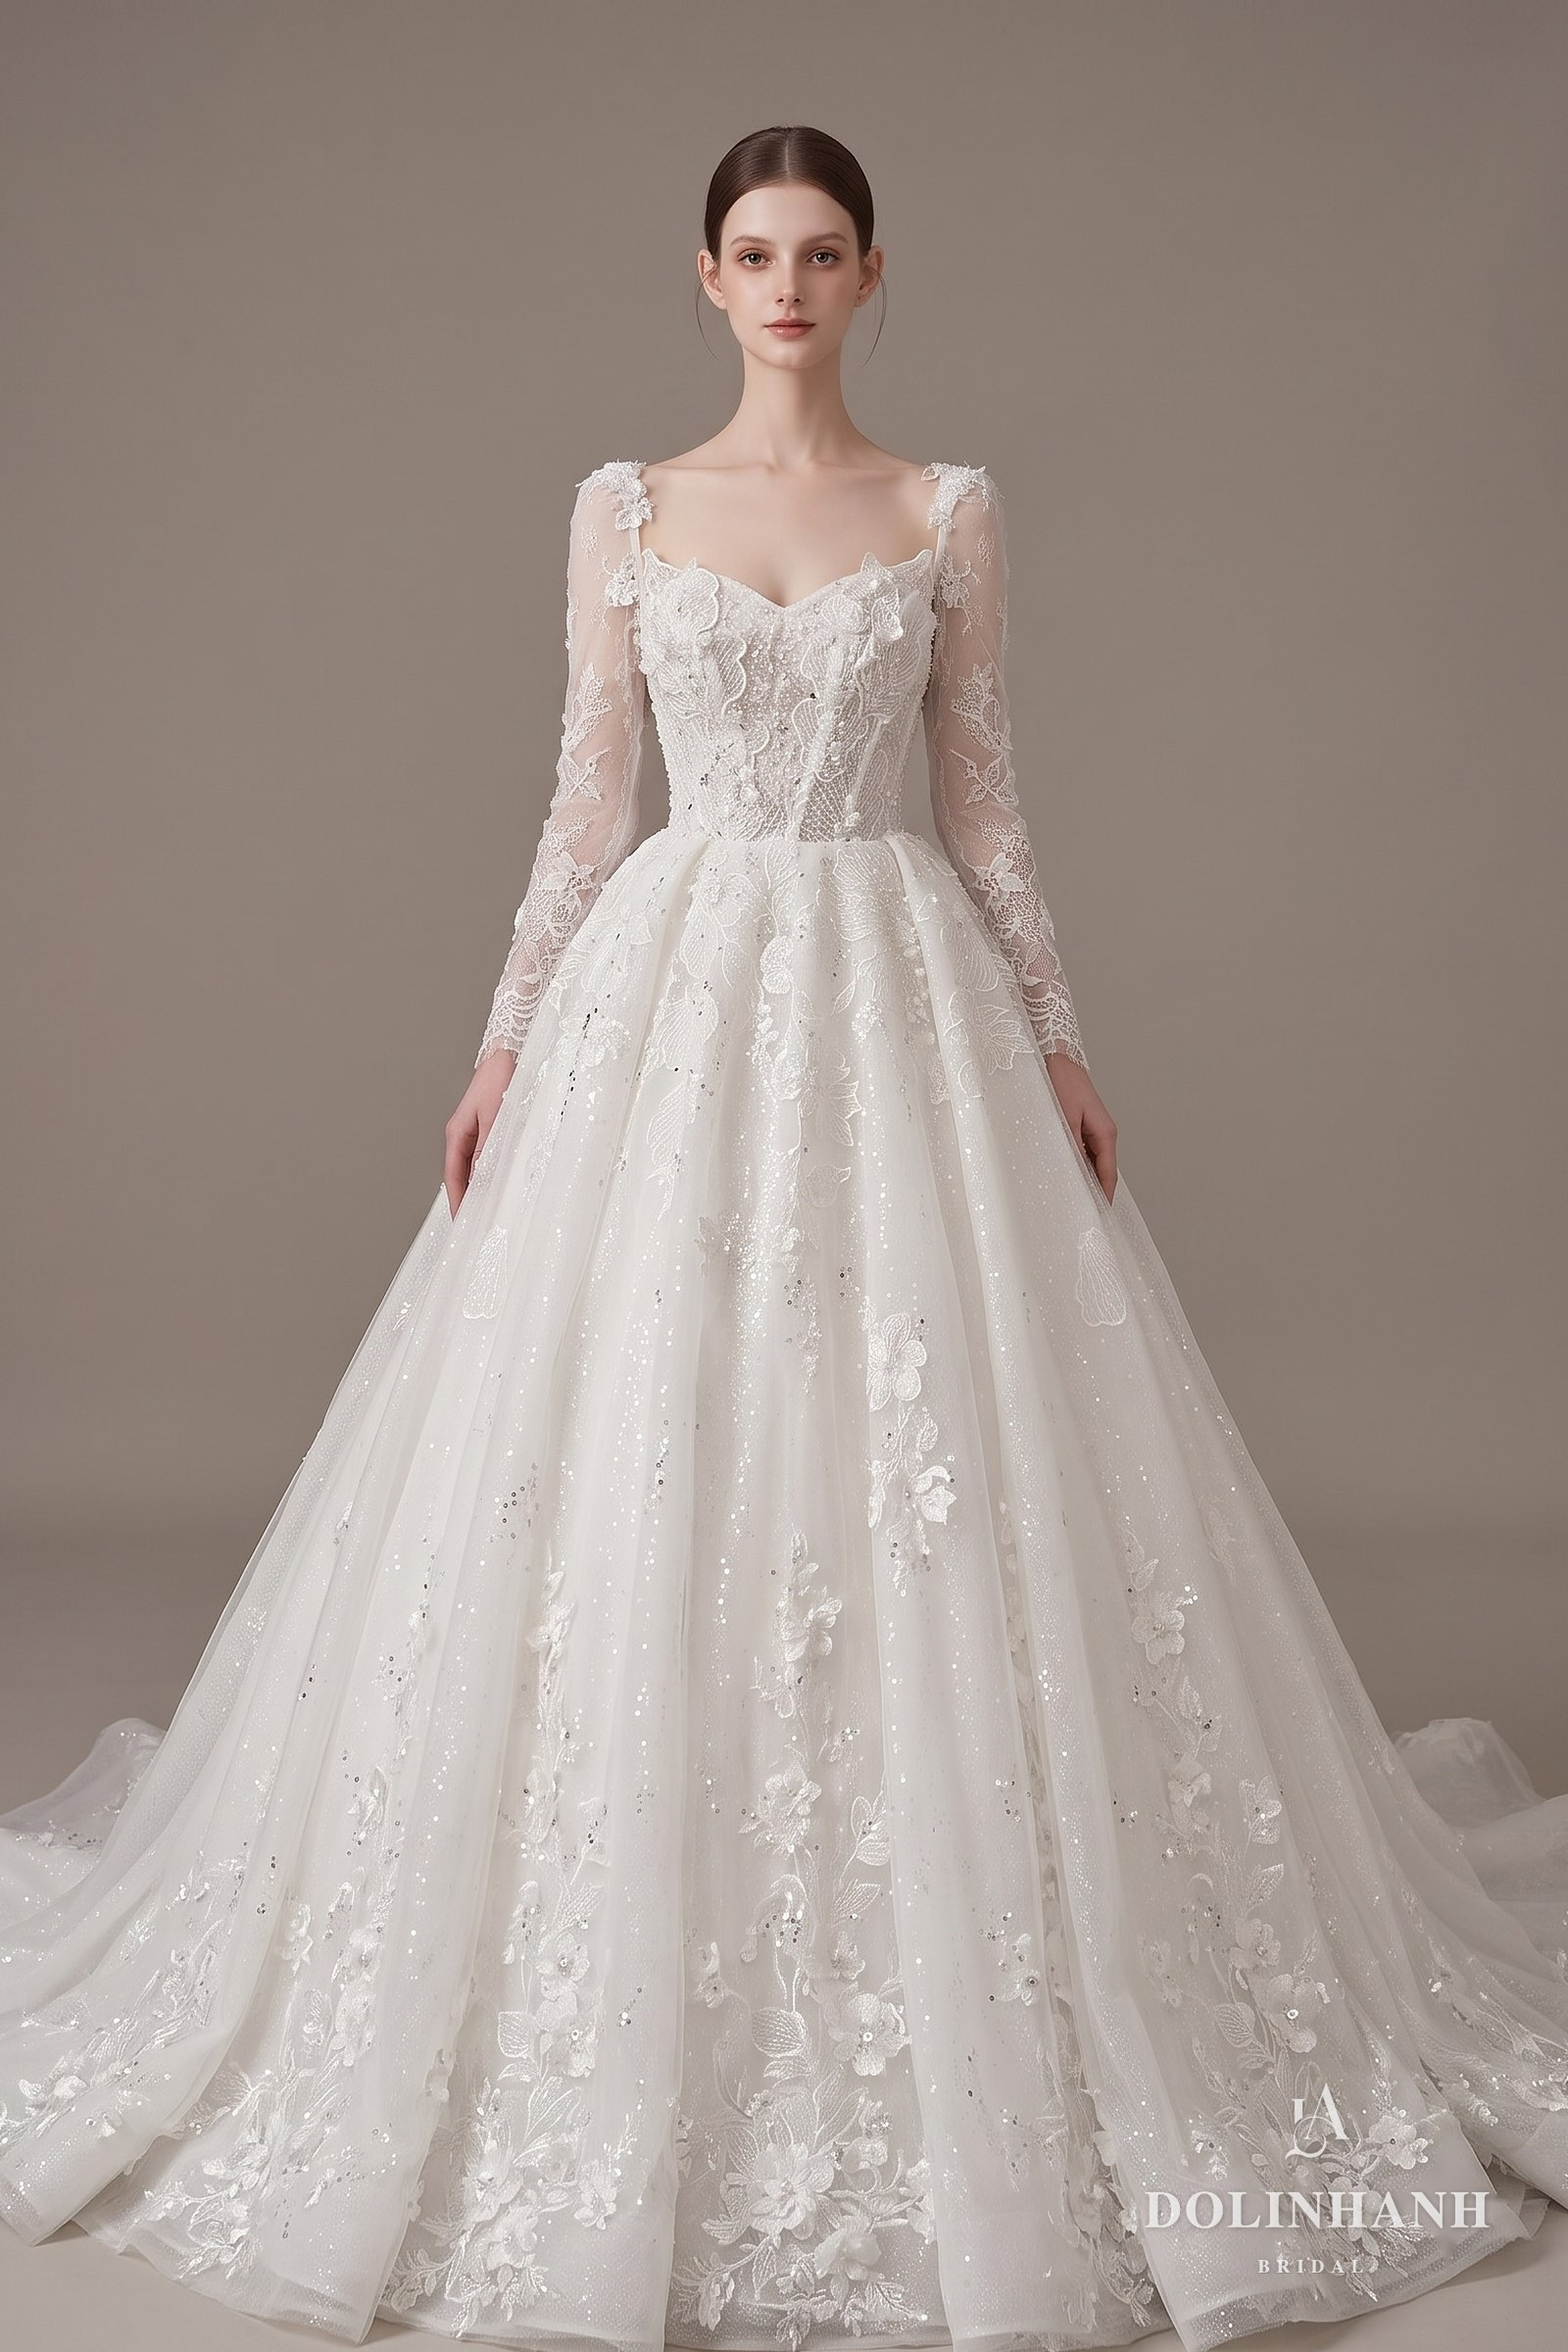
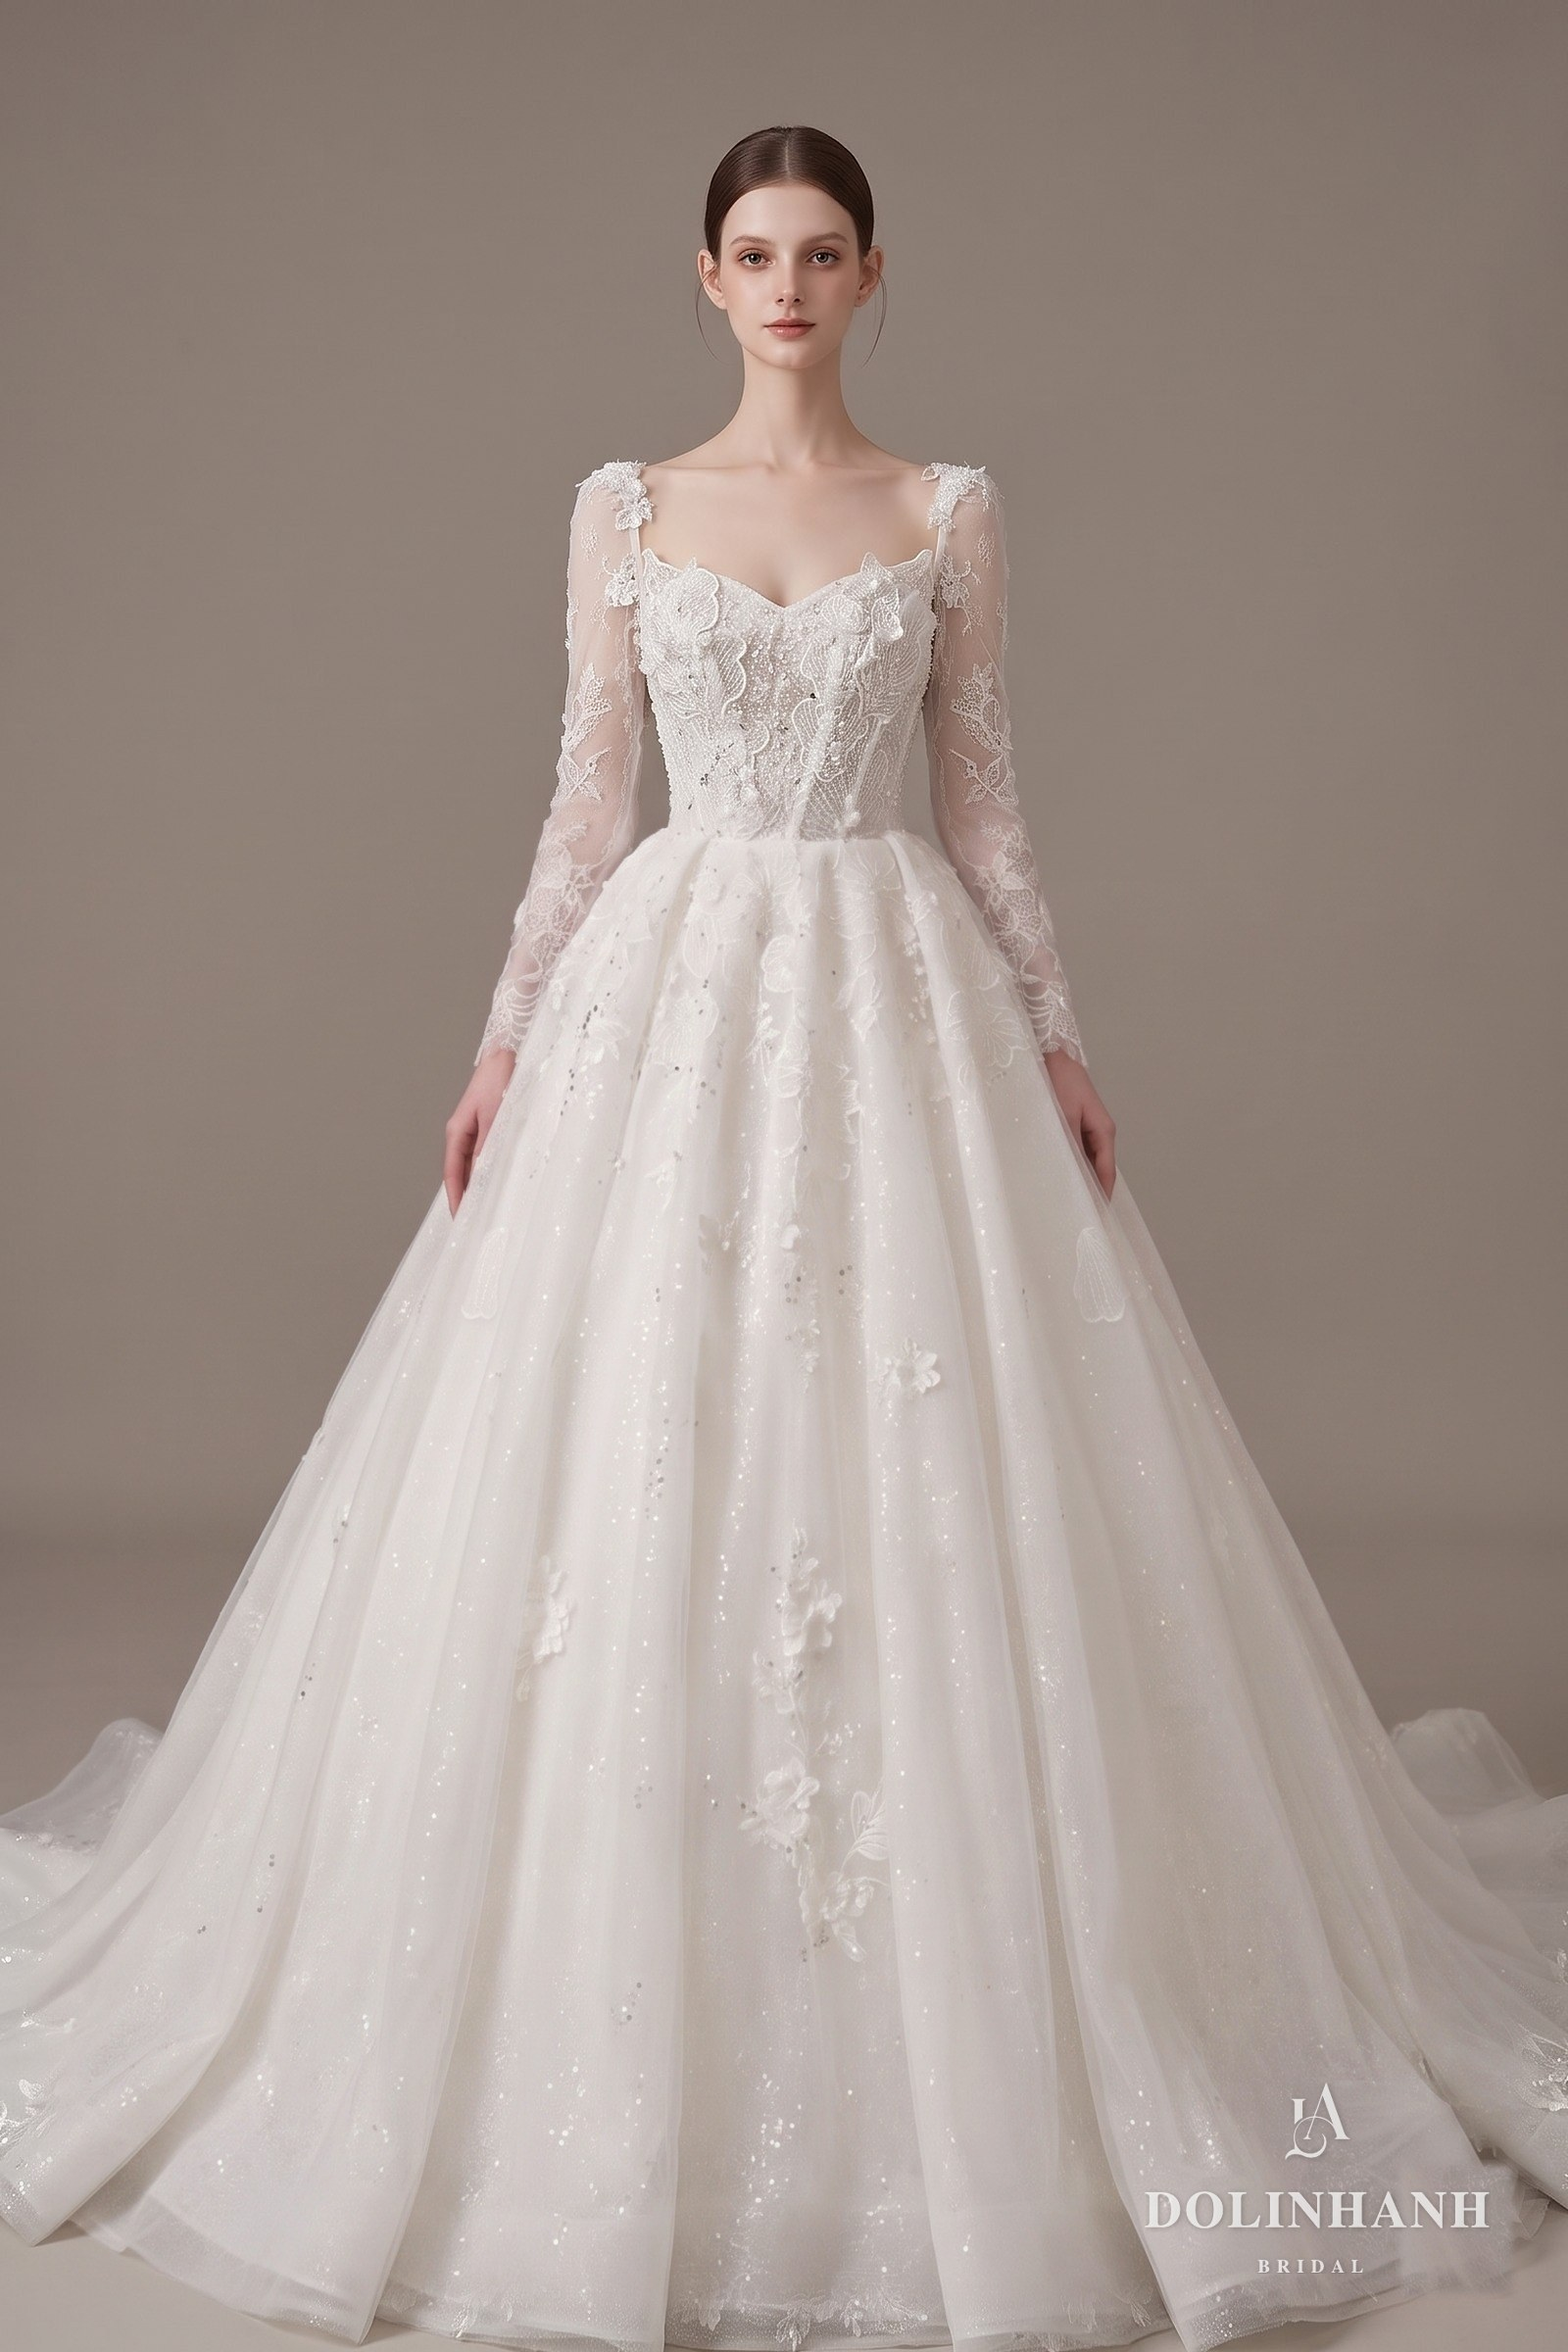
V213: MS 265: fewer lace flowers on the skirt

diff --git a/bo-suu-tap.html b/bo-suu-tap.html
@@ -2317,7 +2317,7 @@ src="https://www.facebook.com/tr?id=1358640082651240&ev=PageView&noscript=1"
         </figure>
         <figure data-dang="ballgown" data-mood="romantic" data-coso="hcm">
           <div class="sl-khung">
-            <div class="sl" data-img="anh/vay/ms265/01.jpg?v=6"></div>
+            <div class="sl" data-img="anh/vay/ms265/01.jpg?v=0511"></div>
           </div>
           <figcaption><span class="kind" data-en="Dolinhanh Bridal" data-zh="Dolinhanh Bridal">Dolinhanh Bridal</span><span class="nm">MS 265</span><span class="de" data-en="3D floral sheer sleeves ballgown" data-zh="立体花朵透纱袖大蓬裙">Tay voan hoa nổi, xoè bồng</span><span class="gia">US$1,880</span></figcaption>
         </figure>
